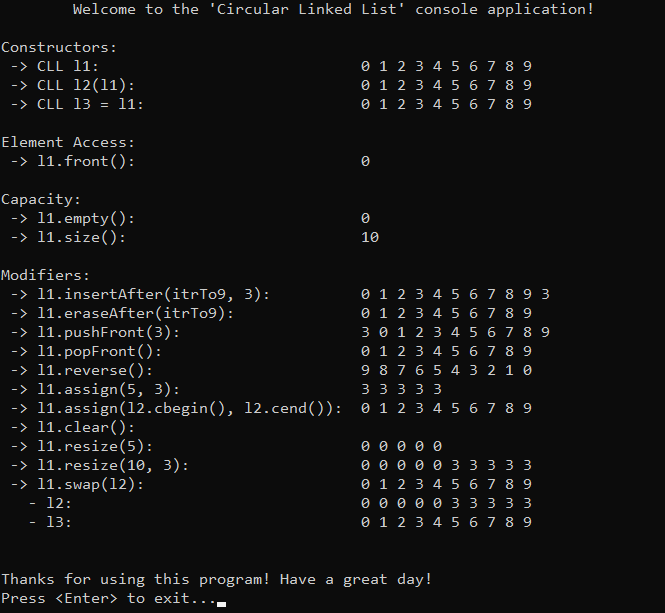
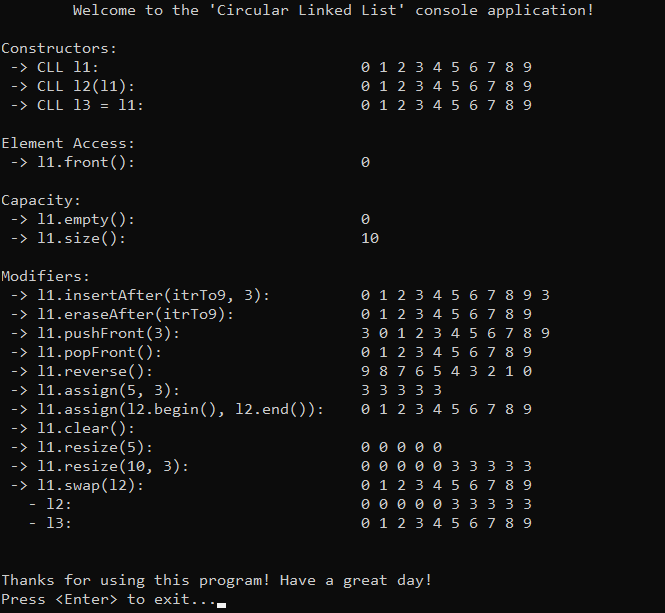
Upd 'Lists': decision to avoid templates for container + itr-based fcn, itr for for-each loops, transition from const_iterator to iterator and corresponding img.

diff --git a/DataStructures/LinkedList/DoublyLinkedList/Source/DoublyLinkedList.cpp b/DataStructures/LinkedList/DoublyLinkedList/Source/DoublyLinkedList.cpp
@@ -117,9 +117,15 @@ DLL::Iterator DLL::begin() { return iterator(_head); }
 DLL::Iterator DLL::end() { return iterator(nullptr); }
 
 // Returns a const iterator to the first element of the list
-DLL::ConstIterator DLL::cbegin() const { return const_iterator(_head); }
+DLL::ConstIterator DLL::begin() const { return const_iterator(_head); }
 
 // Returns a const iterator to one past the last element of the list
+DLL::ConstIterator DLL::end() const { return const_iterator(nullptr); }
+
+// Explicitly returns a const iterator to the first element of the list
+DLL::ConstIterator DLL::cbegin() const { return const_iterator(_head); }
+
+// Explicitly returns a const iterator to one past the last element of the list
 DLL::ConstIterator DLL::cend() const { return const_iterator(nullptr); }
 
 
@@ -359,6 +365,9 @@ void DLL::resize(int size, const int& val) {
 			delete temp;
 		}
 
+		// Ensure the tail's next pointer is null
+		if (_tail) { _tail->_next = nullptr; }
+
 	} else if (size > _size) {
 		// Case 3: new size is greater
 
@@ -370,16 +379,25 @@ void DLL::resize(int size, const int& val) {
 			_head = new Node(val);
 			curr = _head;
 			_tail = _head;
-			--size; // adjust to account first node
+
+			// Add remaining nodes, starting from 1
+			for (int i = 1; i < size; ++i) {
+				Node* newNode = new Node(val);
+				curr->_next = newNode;
+				newNode->_prev = curr;
+				curr = newNode;
+			}
+
+		} else {
+			// Add new nodes until reaching new size
+			for (int i = _size; i < size; ++i) {
+				Node* newNode = new Node(val);
+				curr->_next = newNode;
+				newNode->_prev = curr;
+				curr = newNode;
+			}
 		}
 
-		// Add new nodes until reaching new size
-		for (int i = _size; i < size; ++i) {
-			Node* newNode = new Node(val);
-			curr->_next = newNode;
-			newNode->_prev = curr;
-			curr = newNode;
-		}
 
 		// Update the tail to the last added node
 		_tail = curr;

diff --git a/DataStructures/LinkedList/CircularLinkedList/Source/CircularLinkedList.cpp b/DataStructures/LinkedList/CircularLinkedList/Source/CircularLinkedList.cpp
@@ -107,9 +107,15 @@ CLL::Iterator CLL::begin() { return iterator(_head, _head); }
 CLL::Iterator CLL::end() { return iterator(nullptr, _head); }
 
 // Returns a const iterator to the first element of the list
-CLL::ConstIterator CLL::cbegin() const { return const_iterator(_head, _head); }
+CLL::ConstIterator CLL::begin() const { return const_iterator(_head, _head); }
 
 // Returns a const iterator to one past the last element of the list
+CLL::ConstIterator CLL::end() const { return const_iterator(nullptr, _head); }
+
+// Explicitly returns a const iterator to the first element of the list
+CLL::ConstIterator CLL::cbegin() const { return const_iterator(_head, _head); }
+
+// Explicitly returns a const iterator to one past the last element of the list
 CLL::ConstIterator CLL::cend() const { return const_iterator(nullptr, _head); }
 
 
@@ -277,7 +283,7 @@ void CLL::assign(int size, const int& val) {
 }
 
 // Replaces the contents with copies of those in the range [first, last)
-void CLL::assign(const_iterator first, const_iterator last) {
+void CLL::assign(iterator first, iterator last) {
 	clear();
 
 	// Create the first node

diff --git a/DataStructures/LinkedList/SinglyLinkedList/Source/SinglyLinkedList.cpp b/DataStructures/LinkedList/SinglyLinkedList/Source/SinglyLinkedList.cpp
@@ -106,9 +106,15 @@ SLL::Iterator SLL::begin() { return iterator(_head); }
 SLL::Iterator SLL::end() { return iterator(nullptr); }
 
 // Returns a const iterator to the first element of the list
-SLL::ConstIterator SLL::cbegin() const { return const_iterator(_head); }
+SLL::ConstIterator SLL::begin() const { return const_iterator(_head); }
 
 // Returns a const iterator to one past the last element of the list
+SLL::ConstIterator SLL::end() const { return const_iterator(nullptr); }
+
+// Explicitly returns a const iterator to the first element of the list
+SLL::ConstIterator SLL::cbegin() const { return const_iterator(_head); }
+
+// Explicitly returns a const iterator to one past the last element of the list
 SLL::ConstIterator SLL::cend() const { return const_iterator(nullptr); }
 
 
@@ -248,7 +254,7 @@ void SLL::assign(int size, const int& val) {
 }
 
 // Replaces the contents with copies of those in the range [first, last)
-void SLL::assign(const_iterator first, const_iterator last) {
+void SLL::assign(iterator first, iterator last) {
 	// Clear the existing contents
 	clear();
 

diff --git a/DataStructures/LinkedList/DoublyLinkedList/Source/Main.cpp b/DataStructures/LinkedList/DoublyLinkedList/Source/Main.cpp
@@ -9,9 +9,10 @@
 
 
 void printList(const DLL& list) {
-	for (auto it = list.cbegin(); it != list.cend(); ++it) {
-		std::cout << *it << " ";
-	}
+	for (auto x : list) { std::cout << x << " "; }
+	//for (auto it = list.cbegin(); it != list.cend(); ++it) {
+	//	std::cout << *it << " ";
+	//}
 	std::cout << std::endl;
 }
 
@@ -76,7 +77,7 @@ int main() {
 	std::cout << " -> l1.assign(5, 3): \t\t\t";
 	l1.assign(5, 3);
 	printList(l1);
-	std::cout << " -> l1.assign(l2.begin(), l2.end()):  ";
+	std::cout << " -> l1.assign(l2.begin(), l2.end()): \t";
 	l1.assign(l2.begin(), l3.end());
 	printList(l1);
 	std::cout << " -> l1.clear(): \t\t\t";

diff --git a/DataStructures/LinkedList/SinglyLinkedList/Source/Main.cpp b/DataStructures/LinkedList/SinglyLinkedList/Source/Main.cpp
@@ -9,6 +9,7 @@
 
 
 void printList(const SLL& list) {
+	//for (auto x : list) { std::cout << x << " "; }
 	for (auto it = list.cbegin(); it != list.cend(); ++it) {
 		std::cout << *it << " ";
 	}
@@ -69,8 +70,8 @@ int main() {
 	std::cout << " -> l1.assign(5, 3): \t\t\t";
 	l1.assign(5, 3);
 	printList(l1);
-	std::cout << " -> l1.assign(l2.cbegin(), l2.cend()):  ";
-	l1.assign(l2.cbegin(), l3.cend());
+	std::cout << " -> l1.assign(l2.begin(), l2.end()):  \t";
+	l1.assign(l2.begin(), l3.end());
 	printList(l1);
 	std::cout << " -> l1.clear(): \t\t\t";
 	l1.clear();

diff --git a/DataStructures/LinkedList/CircularLinkedList/Source/Main.cpp b/DataStructures/LinkedList/CircularLinkedList/Source/Main.cpp
@@ -9,6 +9,7 @@
 
 
 void printList(const CLL& list) {
+	//for (auto x : list) { std::cout << x << " "; }
 	for (auto it = list.cbegin(); it != list.cend(); ++it) {
 		std::cout << *it << " ";
 	}
@@ -69,8 +70,8 @@ int main() {
 	std::cout << " -> l1.assign(5, 3): \t\t\t";
 	l1.assign(5, 3);
 	printList(l1);
-	std::cout << " -> l1.assign(l2.cbegin(), l2.cend()):  ";
-	l1.assign(l2.cbegin(), l3.cend());
+	std::cout << " -> l1.assign(l2.begin(), l2.end()): \t";
+	l1.assign(l2.begin(), l3.end());
 	printList(l1);
 	std::cout << " -> l1.clear(): \t\t\t";
 	l1.clear();

diff --git a/DataStructures/LinkedList/CircularLinkedList/Include/CircularLinkedList.h b/DataStructures/LinkedList/CircularLinkedList/Include/CircularLinkedList.h
@@ -35,6 +35,8 @@ public:
 	iterator end();
 	class ConstIterator;
 	using const_iterator = ConstIterator;
+	const_iterator begin() const;
+	const_iterator end() const;
 	const_iterator cbegin() const;
 	const_iterator cend() const;
 
@@ -59,7 +61,7 @@ public:
 	void popFront();
 	void reverse();
 	void assign(int size, const int& val);
-	void assign(const_iterator first, const_iterator last);
+	void assign(iterator first, iterator last);
 	void clear();
 	void resize(int size, const int& val = 0);
 	void swap(CLL& other);

diff --git a/DataStructures/LinkedList/SinglyLinkedList/Include/SinglyLinkedList.h b/DataStructures/LinkedList/SinglyLinkedList/Include/SinglyLinkedList.h
@@ -35,6 +35,8 @@ public:
 	iterator end();
 	class ConstIterator;
 	using const_iterator = ConstIterator;
+	const_iterator begin() const;
+	const_iterator end() const;
 	const_iterator cbegin() const;
 	const_iterator cend() const;
 
@@ -59,7 +61,7 @@ public:
 	void popFront();
 	void reverse();
 	void assign(int size, const int& val);
-	void assign(const_iterator first, const_iterator last);
+	void assign(iterator first, iterator last);
 	void clear();
 	void resize(int size, const int& val = 0);
 	void swap(SLL& other);

diff --git a/DataStructures/LinkedList/DoublyLinkedList/Include/DoublyLinkedList.h b/DataStructures/LinkedList/DoublyLinkedList/Include/DoublyLinkedList.h
@@ -36,6 +36,8 @@ public:
 	iterator end();
 	class ConstIterator;
 	using const_iterator = ConstIterator;
+	const_iterator begin() const;
+	const_iterator end() const;
 	const_iterator cbegin() const;
 	const_iterator cend() const;
 

diff --git a/DataStructures/LinkedList/CircularLinkedList/CircularLinkedList.md b/DataStructures/LinkedList/CircularLinkedList/CircularLinkedList.md
@@ -49,7 +49,8 @@ The implemented console application demonstrates the basic functionality of the 
 To prioritize simplicity and emphasize data structure itself, several design decisions were made:
 - Resembling the behavior of `SLL` (which is based on `std::forward_list`) to provide familiarity for users.
 - Implementing only regular and const iterators (no reverse).
-- Restricting the implementation to the `int` data type to avoid the use of templates.
+- Limiting iterator functions to regular iterators to avoid templates.
+- Restricting the container to `int` to avoid templates.
 - Omitting cases where the container (object itself) is created on the heap.
 - Excluding move semantics to keep the focus on fundamental mechanics.
 - Relying on manual memory management without using smart pointers.
@@ -88,6 +89,8 @@ public:
 	iterator end();
 	class ConstIterator;
 	using const_iterator = ConstIterator;
+	const_iterator begin() const;
+	const_iterator end() const;
 	const_iterator cbegin() const;
 	const_iterator cend() const;
 
@@ -112,7 +115,7 @@ public:
 	void popFront();
 	void reverse();
 	void assign(int size, const int& val);
-	void assign(const_iterator first, const_iterator last);
+	void assign(iterator first, iterator last);
 	void clear();
 	void resize(int size, const int& val = 0);
 	void swap(CLL& other);

diff --git a/DataStructures/LinkedList/DoublyLinkedList/DoublyLinkedList.md b/DataStructures/LinkedList/DoublyLinkedList/DoublyLinkedList.md
@@ -88,7 +88,8 @@ The implemented console application demonstrates the basic functionality of the 
 To prioritize simplicity and emphasize data structure itself, several design decisions were made:
 - Resembling the behavior of `std::list` to provide familiarity for users.
 - Implementing only regular and const iterators (no reverse).
-- Restricting the implementation to the `int` data type to avoid the use of templates.
+- Limiting iterator functions to regular iterators to avoid templates.
+- Restricting the container to `int` to avoid templates.
 - Omitting cases where the container (object itself) is created on the heap.
 - Excluding move semantics to keep the focus on fundamental mechanics.
 - Relying on manual memory management without using smart pointers.
@@ -128,6 +129,8 @@ public:
 	iterator end();
 	class ConstIterator;
 	using const_iterator = ConstIterator;
+	const_iterator begin() const;
+	const_iterator end() const;
 	const_iterator cbegin() const;
 	const_iterator cend() const;
 

diff --git a/DataStructures/LinkedList/SinglyLinkedList/SinglyLinkedList.md b/DataStructures/LinkedList/SinglyLinkedList/SinglyLinkedList.md
@@ -84,7 +84,8 @@ The implemented console application demonstrates the basic functionality of the 
 To prioritize simplicity and emphasize data structure itself, several design decisions were made:
 - Resembling the behavior of `std::forward_list` to provide familiarity for users.
 - Implementing both regular and const iterators.
-- Restricting the implementation to the `int` data type to avoid the use of templates.
+- Limiting iterator functions to regular iterators to avoid templates.
+- Restricting the container to `int` to avoid templates.
 - Omitting cases where the container (object itself) is created on the heap.
 - Excluding move semantics to keep the focus on fundamental mechanics.
 - Relying on manual memory management without using smart pointers.
@@ -123,6 +124,8 @@ public:
 	iterator end();
 	class ConstIterator;
 	using const_iterator = ConstIterator;
+	const_iterator begin() const;
+	const_iterator end() const;
 	const_iterator cbegin() const;
 	const_iterator cend() const;
 
